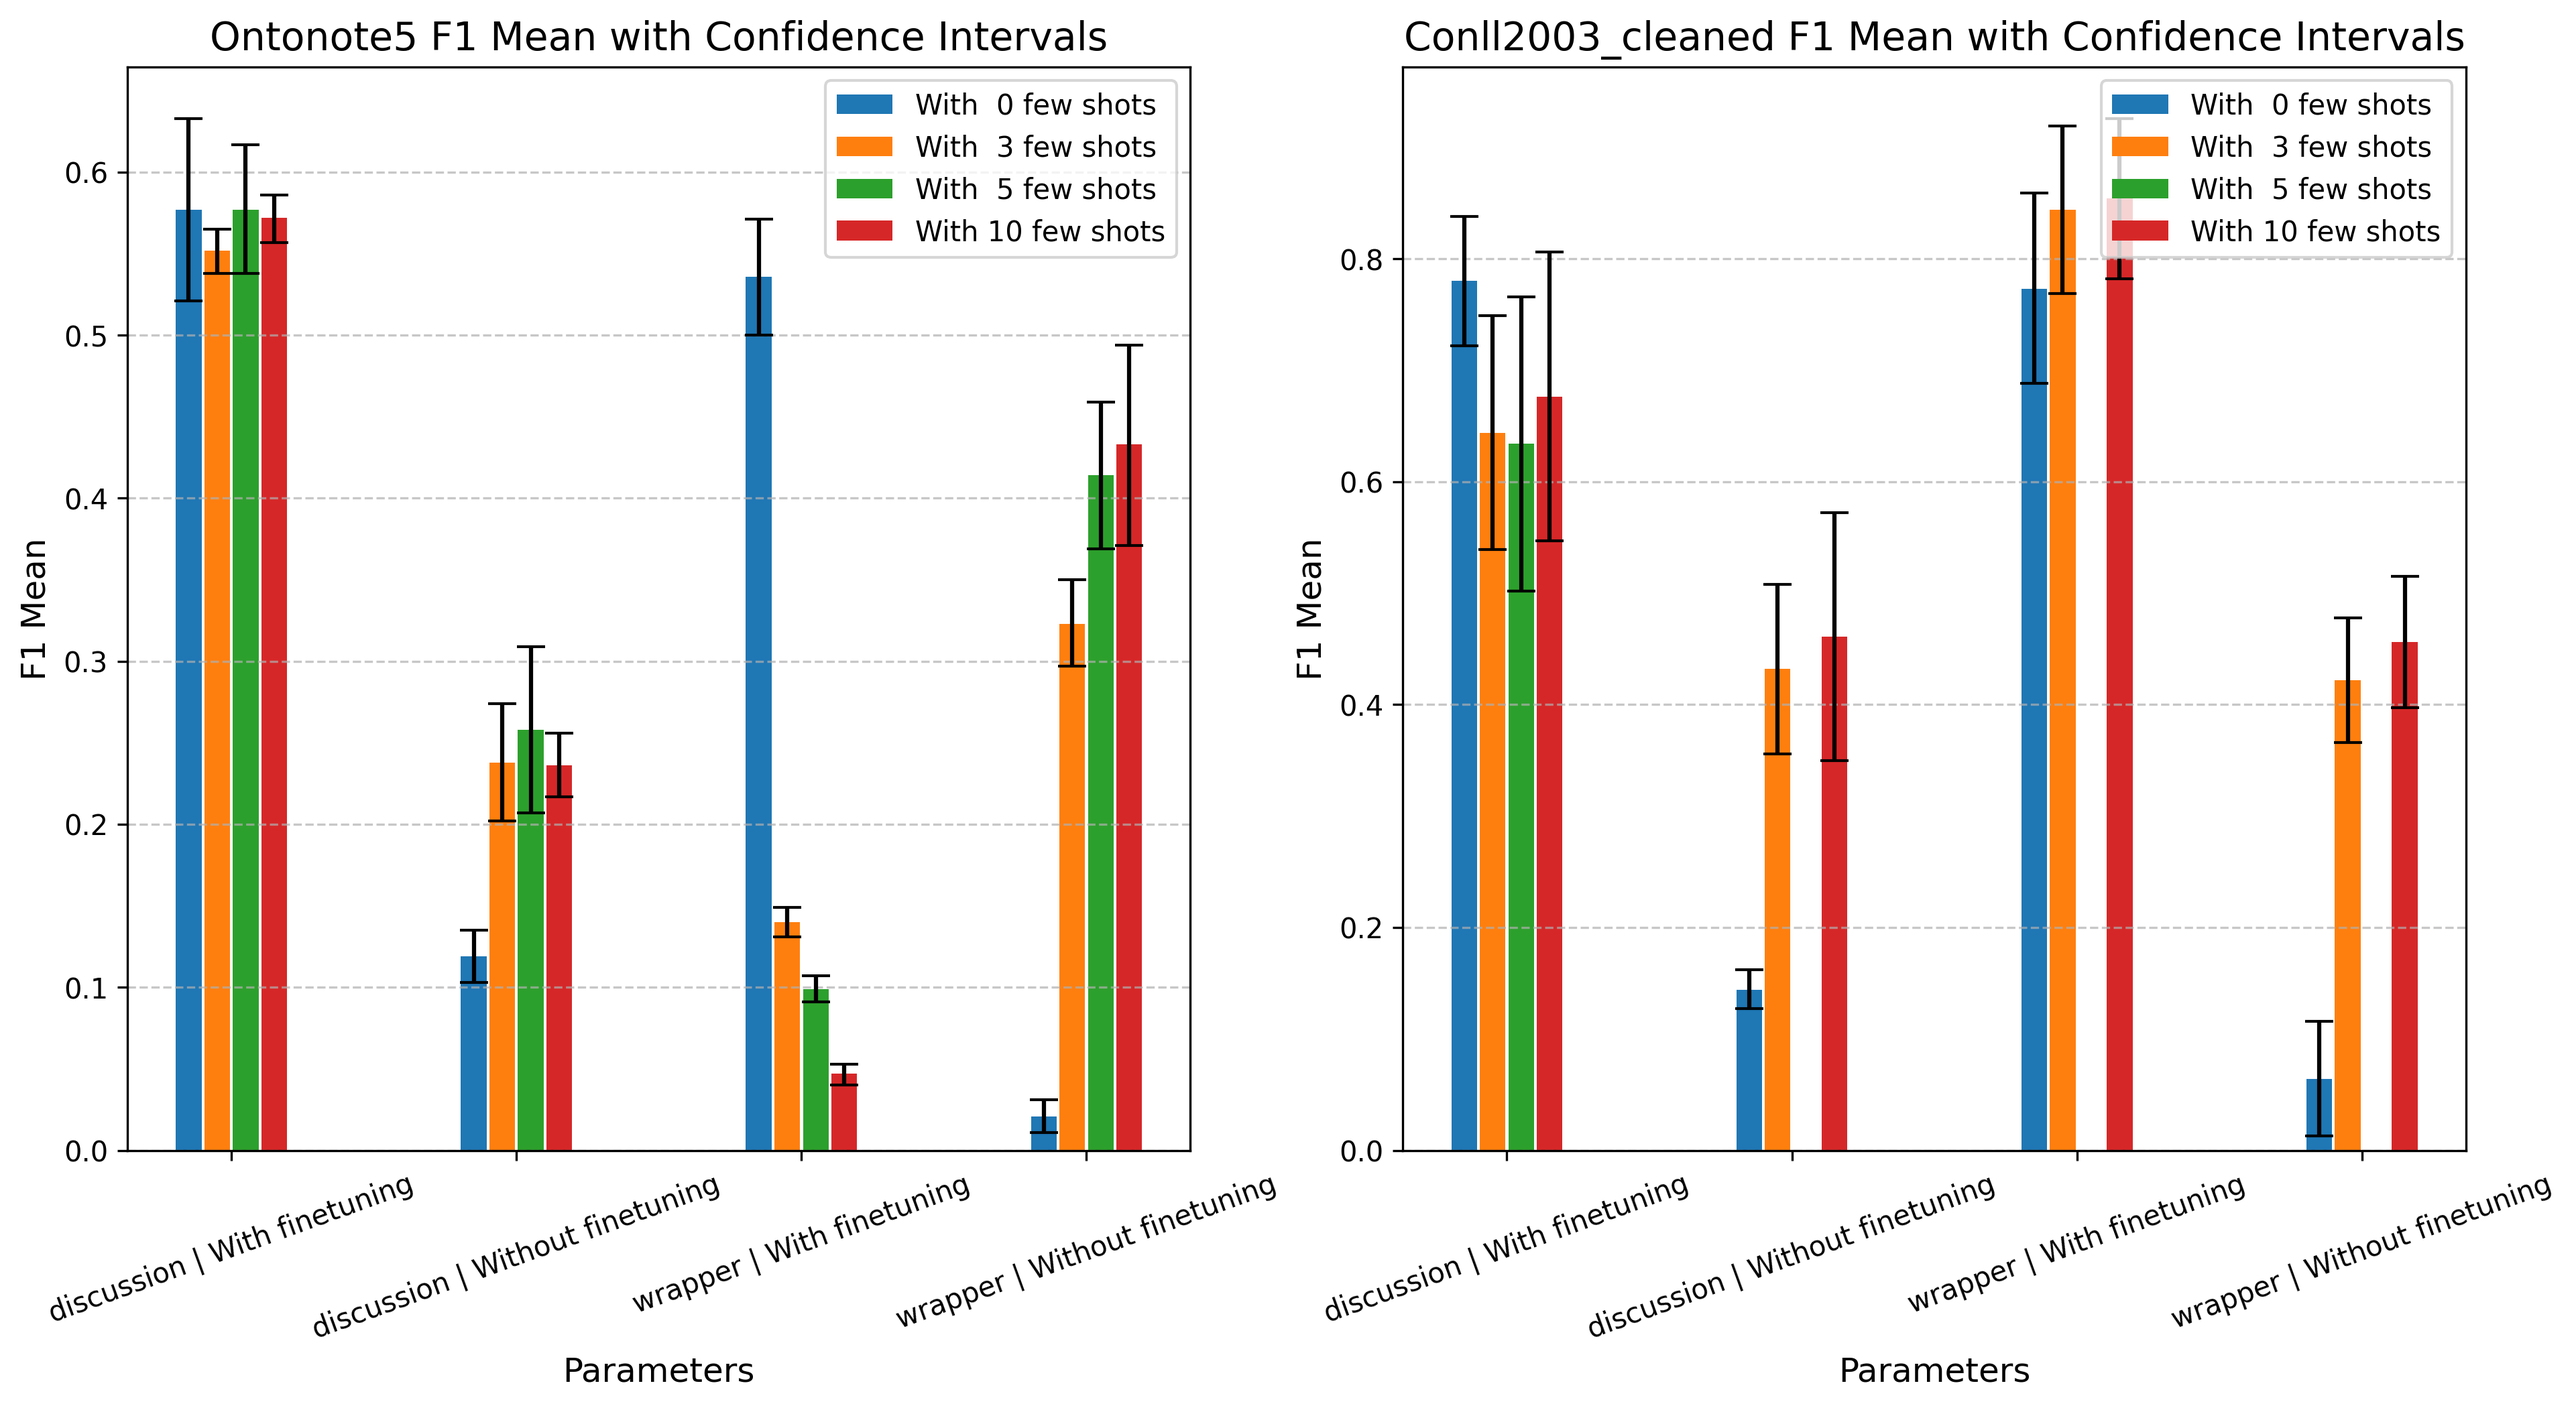
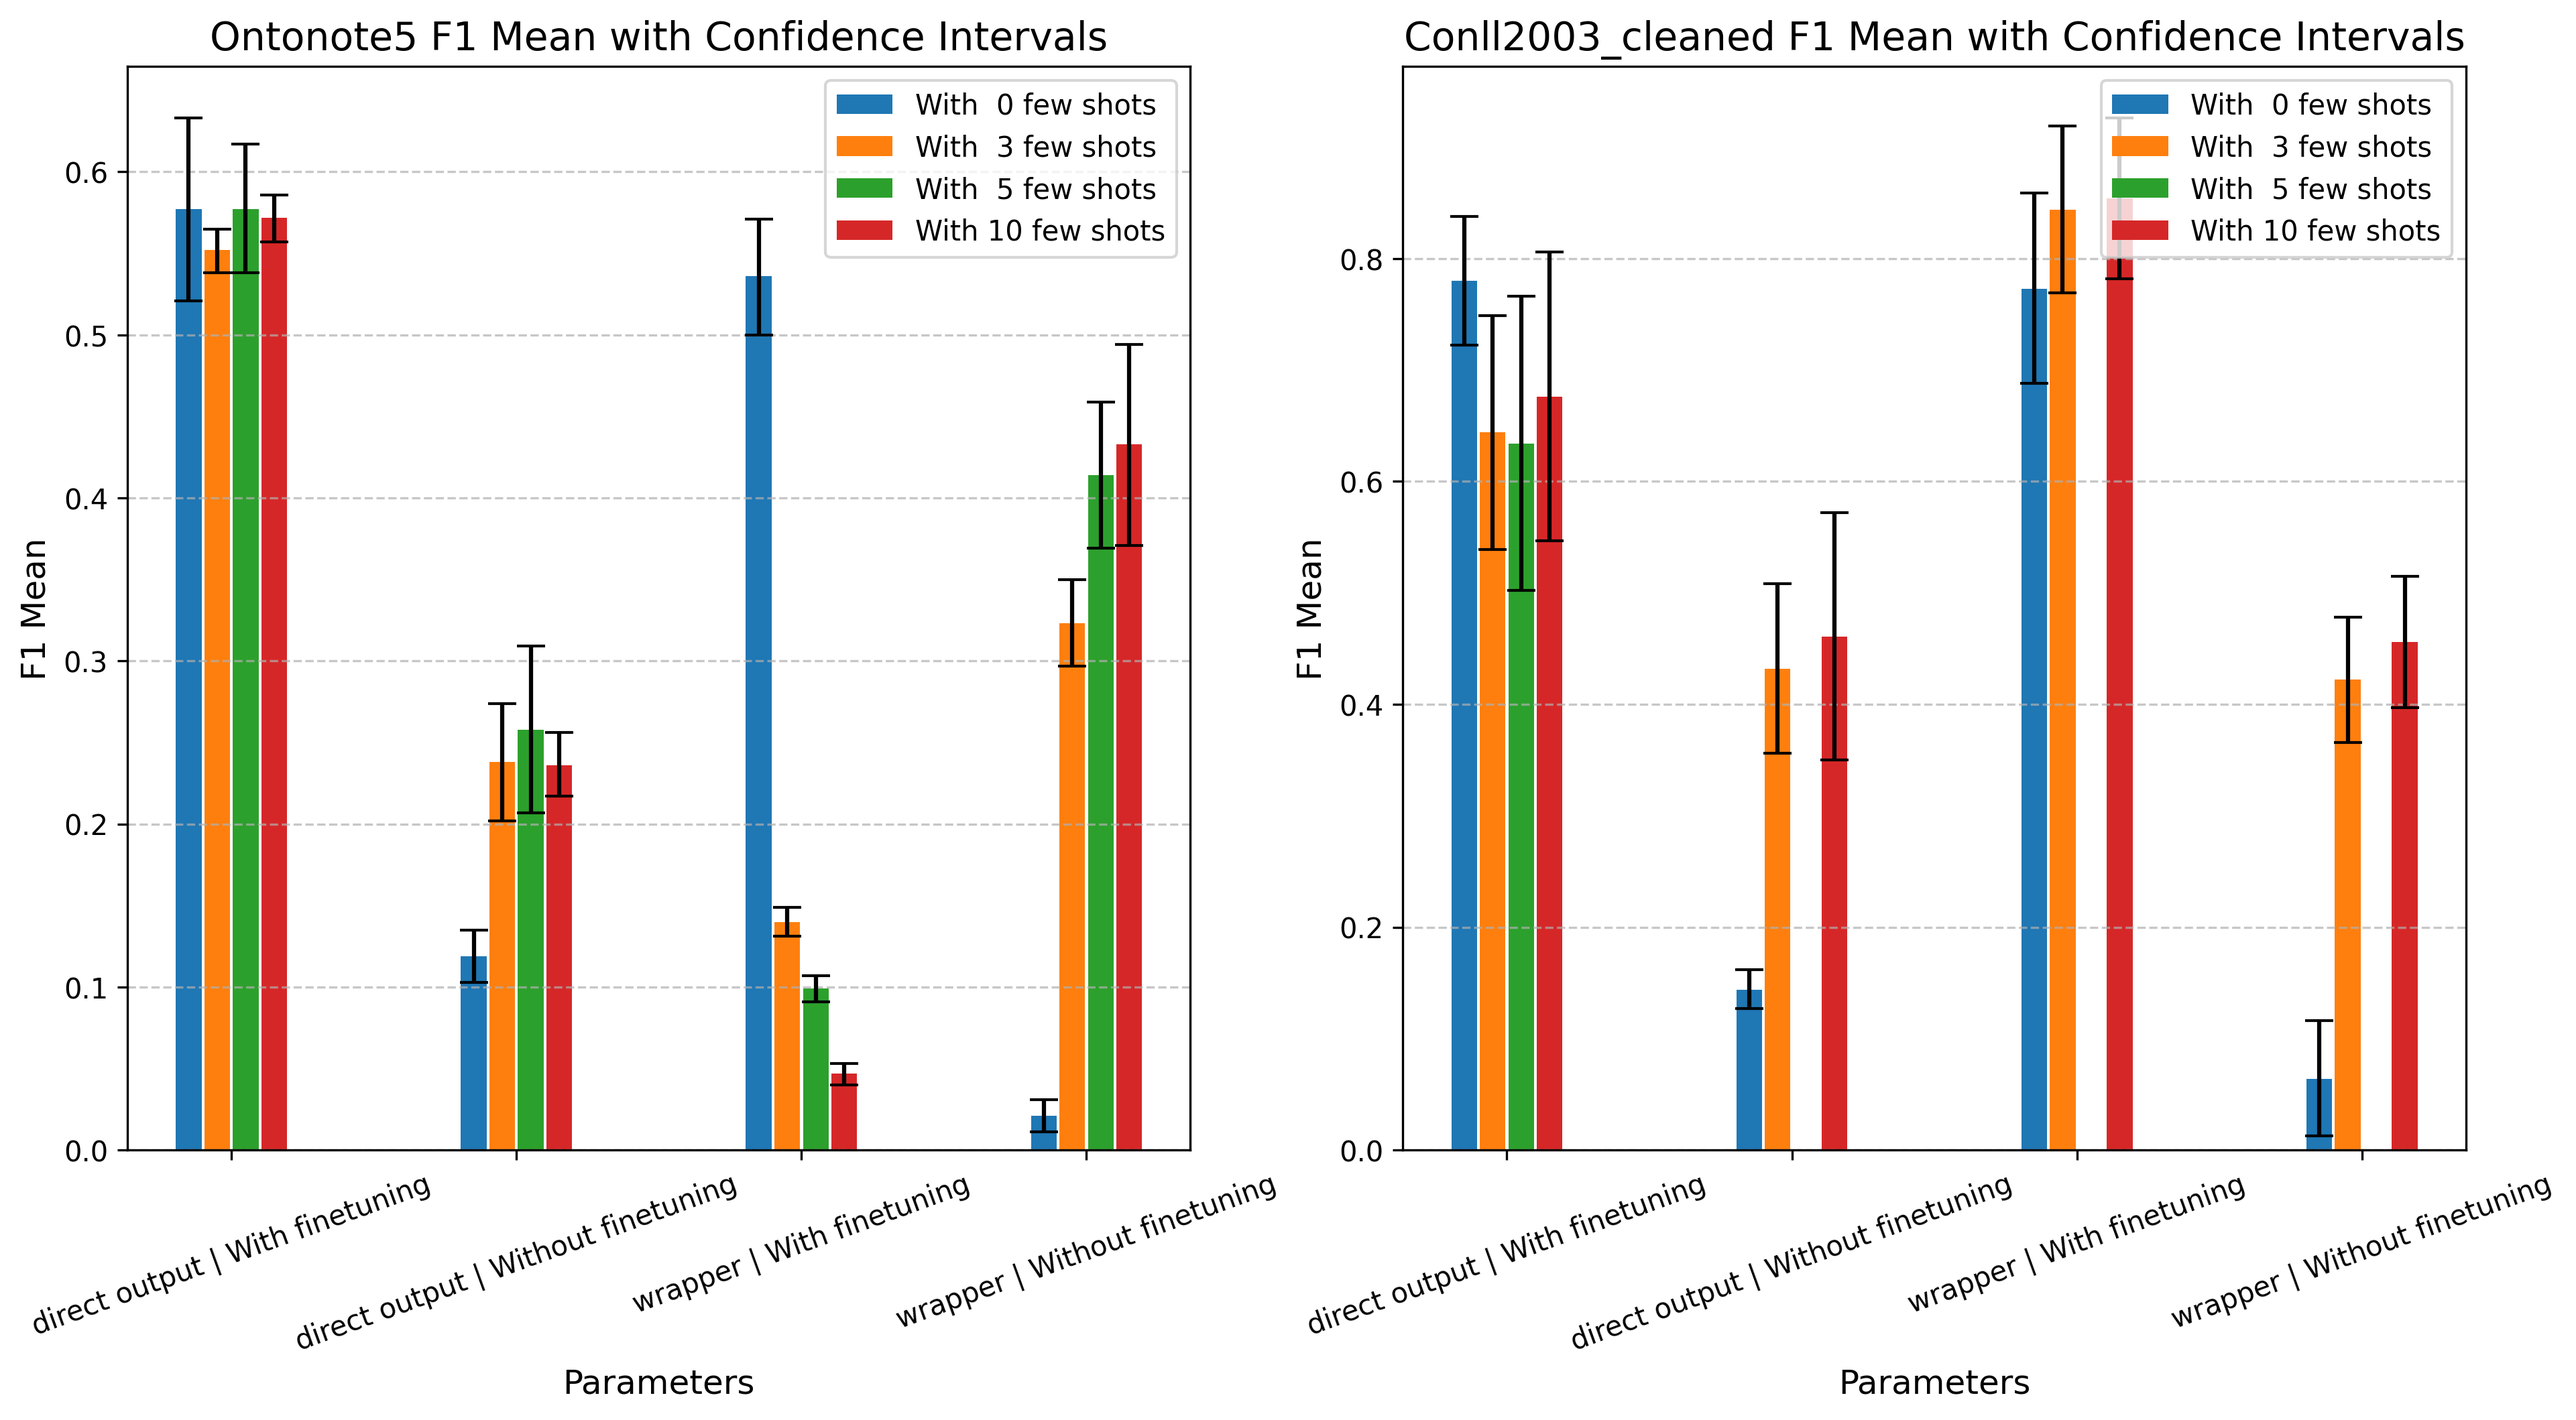
Update graph of results

diff --git a/ner/plot_results.py b/ner/plot_results.py
@@ -14,12 +14,14 @@ def get_results(with_ft, few_shots = [0,3], dataset = "ontonote5"):
             df_to_show = df_results[df_results['model'].str.contains('ft') & df_results['model'].str.contains('2000')]
         else : 
             df_to_show = df_results[~df_results['model'].str.contains('ft')]
+            
         df_res = df_to_show[df_to_show['precision'] == '300']
         df_res = df_res[df_res['nb_few_shots'].isin(few_shots)]
         df_res = df_res[df_res['prompt_technique'] != 'multi_prompt-get-entities-tagger']
     elif dataset == "conll2003_cleaned" :
         df_results, results = load_all_results(root_directory = f"ner/saves/results/{dataset}/")
         df_results['nb_samples'] = df_results['nb_test_run'] * df_results['len_data_test']
+        df_results = df_results[~df_results['model'].str.contains('instruct')]
         df_res = df_results[df_results['nb_samples'] == 300]
         if with_ft:
             df_res = df_res[df_res['model'].str.contains('ft')]
@@ -28,7 +30,7 @@ def get_results(with_ft, few_shots = [0,3], dataset = "ontonote5"):
         
         df_res = df_res[df_res['nb_few_shots'].isin(few_shots)]
     
-    df_res['few_shot_tecnique'] = df_res['few_shot_tecnique'].replace('discussion', 'direct output') 
+    df_res['prompt_technique'] = df_res['prompt_technique'].replace('discussion', 'direct output') 
     return df_res[['model', 'f1_mean', 'f1_conf_inter', 'prompt_technique',
             'few_shot_tecnique', 'nb_few_shots', 'precision', 'plus_plus']]
 
@@ -84,6 +86,7 @@ def show_results(with_ft = False, datasets = ["ontonote5", "conll2003_cleaned"])
         axs[i].legend()
     plt.savefig('ner/saves/results/ontonote5/graph_results.png', dpi=300, bbox_inches='tight')
     plt.show()
+    return df
 
 def show_diff_plus_plus(with_ft = False, datasets = ["ontonote5"]):
     output = ""
@@ -161,6 +164,8 @@ def show_results_few_shots(datasets = ["ontonote5", "conll2003_cleaned"]):
         df_results,results = load_all_results(root_directory = f"ner/saves/results/{dataset}/")
         df_results = df_results[(df_results['model'].str.contains('2000')) & (df_results['model'].str.contains('ft')) | ~df_results['model'].str.contains('ft')]
         df_results['ft'] = df_results['model'].str.contains('ft') & df_results['model'].str.contains('2000')
+        df_results['prompt_technique'] = df_results['prompt_technique'].replace('discussion', 'direct output') 
+        df_results = df_results[~df_results['model'].str.contains('instruct')]
         df_to_show = df_results[['model', 'f1_mean', 'f1_conf_inter', 'prompt_technique',
             'few_shot_tecnique', 'nb_few_shots', 'precision', 'plus_plus', 'ft']]
         df_to_show = df_to_show[df_to_show['plus_plus'] == True]
@@ -169,7 +174,7 @@ def show_results_few_shots(datasets = ["ontonote5", "conll2003_cleaned"]):
         elif dataset == 'conll2003_cleaned' :
             df_to_show = df_to_show[df_results['nb_test_run'] * df_results['len_data_test'] == 300]
             df_to_show = df_to_show[df_to_show['precision'].isin(['300', 300])]
-        df_to_show = df_to_show[df_to_show['prompt_technique'].isin(['wrapper', 'discussion'])]
+        df_to_show = df_to_show[df_to_show['prompt_technique'].isin(['wrapper', 'direct output'])]
 
         df_to_show['x_names']= df_to_show.apply(lambda row :f"{row['prompt_technique']} | {'With' if row['ft'] else 'Without'} finetuning", axis = 1)
         df_to_show['tech_name'] = df_to_show.apply(lambda row :f"With {' ' if row['nb_few_shots'] <10 else ''}{row['nb_few_shots']} few shots", axis = 1)
@@ -223,6 +228,8 @@ def show_diff_ft_few_shots(datasets = ["ontonote5", "conll2003_cleaned"]):
         df_results,results = load_all_results(root_directory = f"ner/saves/results/{dataset}/")
         df_results = df_results[df_results['model'].str.contains('2000-') & df_results['model'].str.contains('ft') | ~df_results['model'].str.contains('ft')]
         df_results['ft'] = df_results['model'].str.contains('ft') & df_results['model'].str.contains('2000')
+        df_results['prompt_technique'] = df_results['prompt_technique'].replace('discussion', 'direct output') 
+        df_results = df_results[~df_results['model'].str.contains('instruct')]
         df_to_show = df_results[['model', 'f1_mean', 'f1_conf_inter', 'prompt_technique',
             'few_shot_tecnique', 'nb_few_shots', 'precision', 'plus_plus', 'ft']]
         df_to_show = df_to_show[df_to_show['plus_plus'] & ~df_to_show['ft']]
